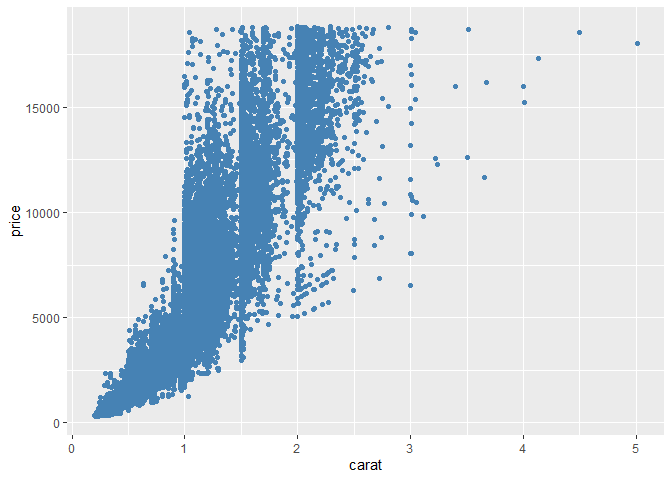
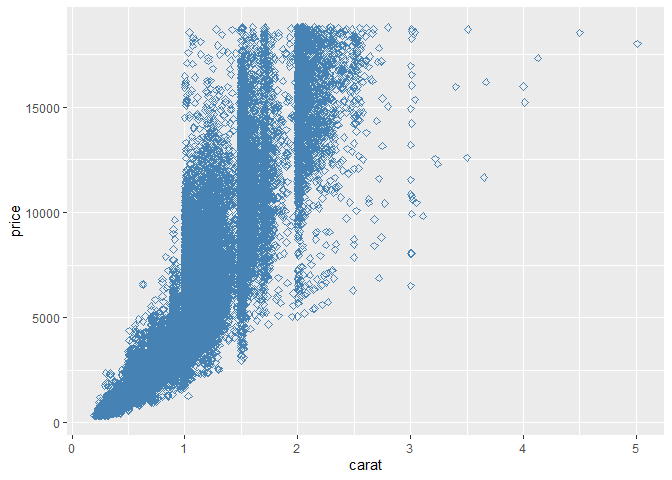
Clarify graphs

diff --git a/data-science-curriculum-build/challenges/c00-diamonds-assignment.md b/data-science-curriculum-build/challenges/c00-diamonds-assignment.md
@@ -101,6 +101,7 @@ diamonds |>
   ggplot() + 
   geom_point(
     color = "steelblue",
+    shape = 5,
     mapping = aes(
       x = carat,
       y = price,
@@ -117,7 +118,11 @@ diamonds |>
   below that carat level but at the same price just don’t exist.
 - Price increases quicker than carat creating a positive non-linear
   relationship.
-- In this dataset, there is a price ceiling at around \$17,500.
+- In this dataset which is scraped from only one vendor, there is a
+  price ceiling at around \$17,500.
+- This vendor sells many diamonds that cluster very close to the half
+  carat intervals. There is also a weaker clump at the quarter carat
+  intervals (see 1.25 and 1.75).
 
 ### **q2** Create a visualization showing variables `carat`, `price`, and `cut` simultaneously. Experiment with which variable you assign to which aesthetic (`x`, `y`, etc.) to find an effective visual.
 
@@ -126,13 +131,15 @@ diamonds |>
 diamonds |>
   ggplot() +
   geom_point(
+    shape = 18,
+    size = 2,
     mapping = aes(
       x = carat,
       y = price,
       color = cut
     )
   ) +
-  scale_color_brewer(palette = "Reds")
+  scale_color_brewer(palette = "YlOrRd")
 ```
 
 ![](c00-diamonds-assignment_files/figure-gfm/q2-task-1.png)<!-- -->
@@ -144,6 +151,10 @@ diamonds |>
 - There seems to be a higher concentration of ideally cut diamonds in
   the lower carat range, as they get bigger fewer ideal diamonds are
   seen.
+- Fair diamonds are the only cut that seem to be consistenlty affects by
+  price. They appear most often at the lower price end of the main clump
+  of datapoints. This is very clearly illustrated in the 0.5-2 carat
+  range.
 
 # Communication
 
